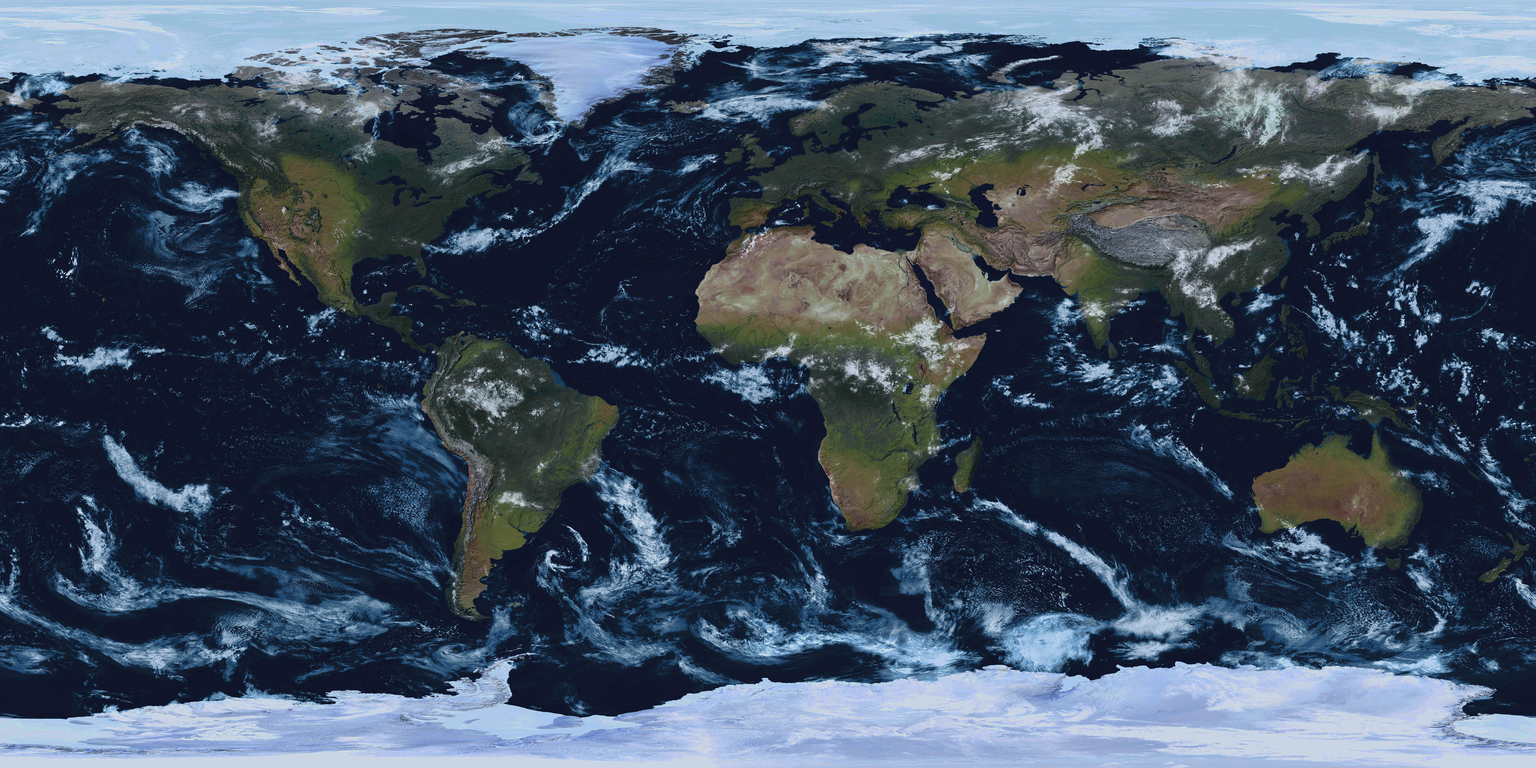
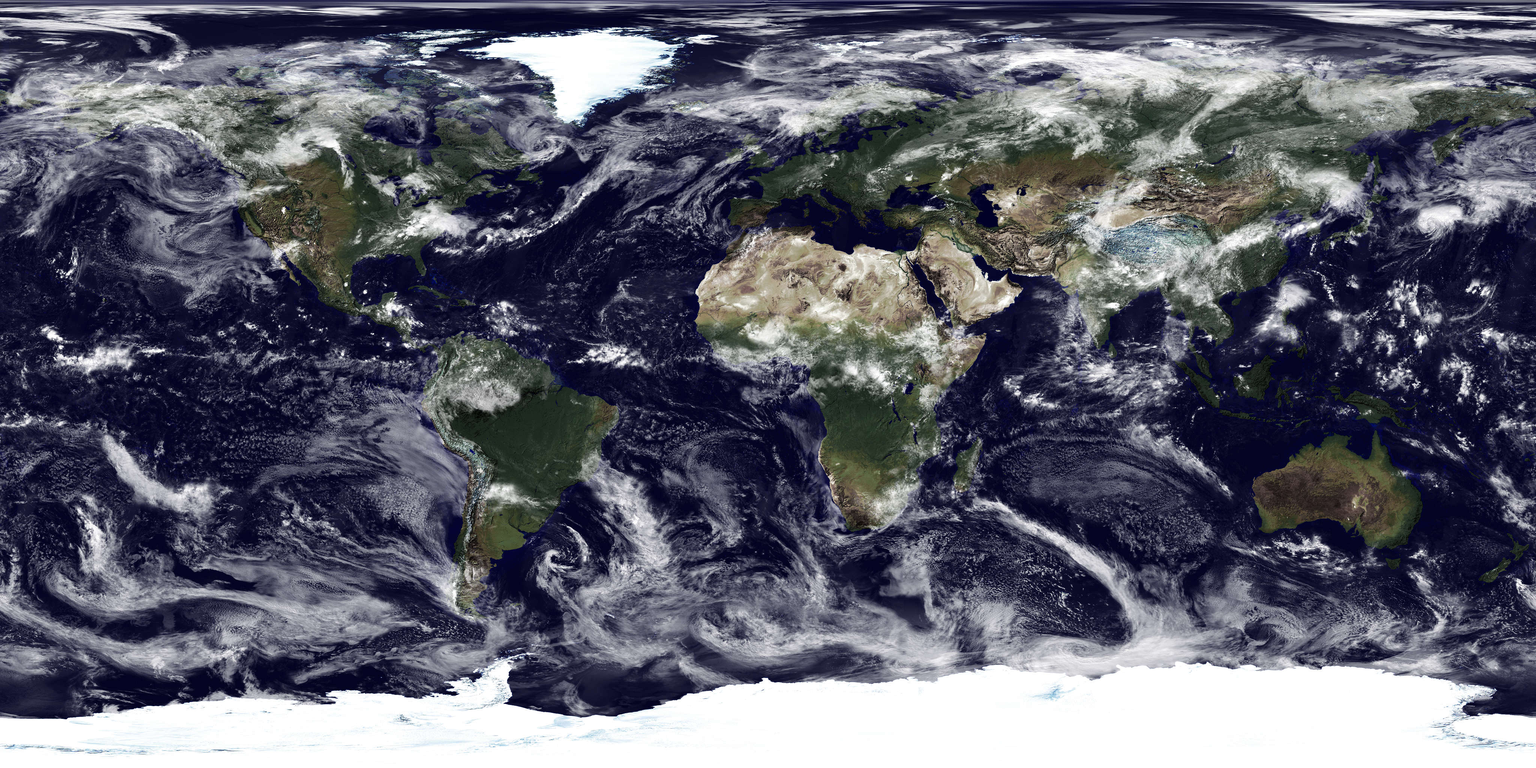
Updated earth textures, updated all translations

diff --git a/core/src/gaia/cu9/ari/gaiaorbit/interfce/NotificationsInterface.java b/core/src/gaia/cu9/ari/gaiaorbit/interfce/NotificationsInterface.java
@@ -90,10 +90,9 @@ public class NotificationsInterface extends Table implements IObserver {
         EventManager.instance.subscribe(this, Events.POST_NOTIFICATION, Events.FOCUS_CHANGED, Events.TOGGLE_TIME_CMD, Events.TOGGLE_VISIBILITY_CMD, Events.CAMERA_MODE_CMD, Events.PACE_CHANGED_INFO, Events.FOCUS_LOCK_CMD, Events.TOGGLE_AMBIENT_LIGHT, Events.FOV_CHANGE_NOTIFICATION, Events.JAVA_EXCEPTION, Events.ORBIT_DATA_LOADED, Events.SCREENSHOT_INFO, Events.COMPUTE_GAIA_SCAN_CMD, Events.ONLY_OBSERVED_STARS_CMD, Events.TRANSIT_COLOUR_CMD, Events.LIMIT_MAG_CMD, Events.TOGGLE_STEREOSCOPIC, Events.TOGGLE_CLEANMODE, Events.FRAME_OUTPUT_CMD, Events.TOGGLE_STEREO_PROFILE);
     }
 
-    public void unsubscribe(){
+    public void unsubscribe() {
         EventManager.instance.unsubscribe(this, Events.POST_NOTIFICATION, Events.FOCUS_CHANGED, Events.TOGGLE_TIME_CMD, Events.TOGGLE_VISIBILITY_CMD, Events.CAMERA_MODE_CMD, Events.PACE_CHANGED_INFO, Events.FOCUS_LOCK_CMD, Events.TOGGLE_AMBIENT_LIGHT, Events.FOV_CHANGE_NOTIFICATION, Events.JAVA_EXCEPTION, Events.ORBIT_DATA_LOADED, Events.SCREENSHOT_INFO, Events.COMPUTE_GAIA_SCAN_CMD, Events.ONLY_OBSERVED_STARS_CMD, Events.TRANSIT_COLOUR_CMD, Events.LIMIT_MAG_CMD, Events.TOGGLE_STEREOSCOPIC, Events.TOGGLE_CLEANMODE, Events.FRAME_OUTPUT_CMD, Events.TOGGLE_STEREO_PROFILE);
     }
-
 
     private void addMessage(String msg) {
         addMessage(msg, false);
@@ -170,12 +169,12 @@ public class NotificationsInterface extends Table implements IObserver {
                 if (bool == null) {
                     addMessage(I18n.bundle.format("notif.toggle", I18n.bundle.format("gui.time")));
                 } else {
-                    addMessage(I18n.bundle.format("notif.simulation.pause", (bool ? 0 : 1)));
+                    addMessage(I18n.bundle.format("notif.simulation." + (bool ? "resume" : "pause")));
                 }
                 break;
             case TOGGLE_VISIBILITY_CMD:
                 if (data.length == 2)
-                    addMessage(I18n.bundle.format("notif.visibility.onoff", (String) data[0], ((Boolean) data[1]) ? 1 : 0));
+                    addMessage(I18n.bundle.format("notif.visibility." + (((Boolean) data[1]) ? "on" : "off"), (String) data[0]));
                 else
                     addMessage(I18n.bundle.format("notif.visibility.toggle", (String) data[0]));
                 break;
@@ -264,7 +263,7 @@ public class NotificationsInterface extends Table implements IObserver {
         }
     }
 
-    public void dispose(){
+    public void dispose() {
         this.unsubscribe();
     }
 
